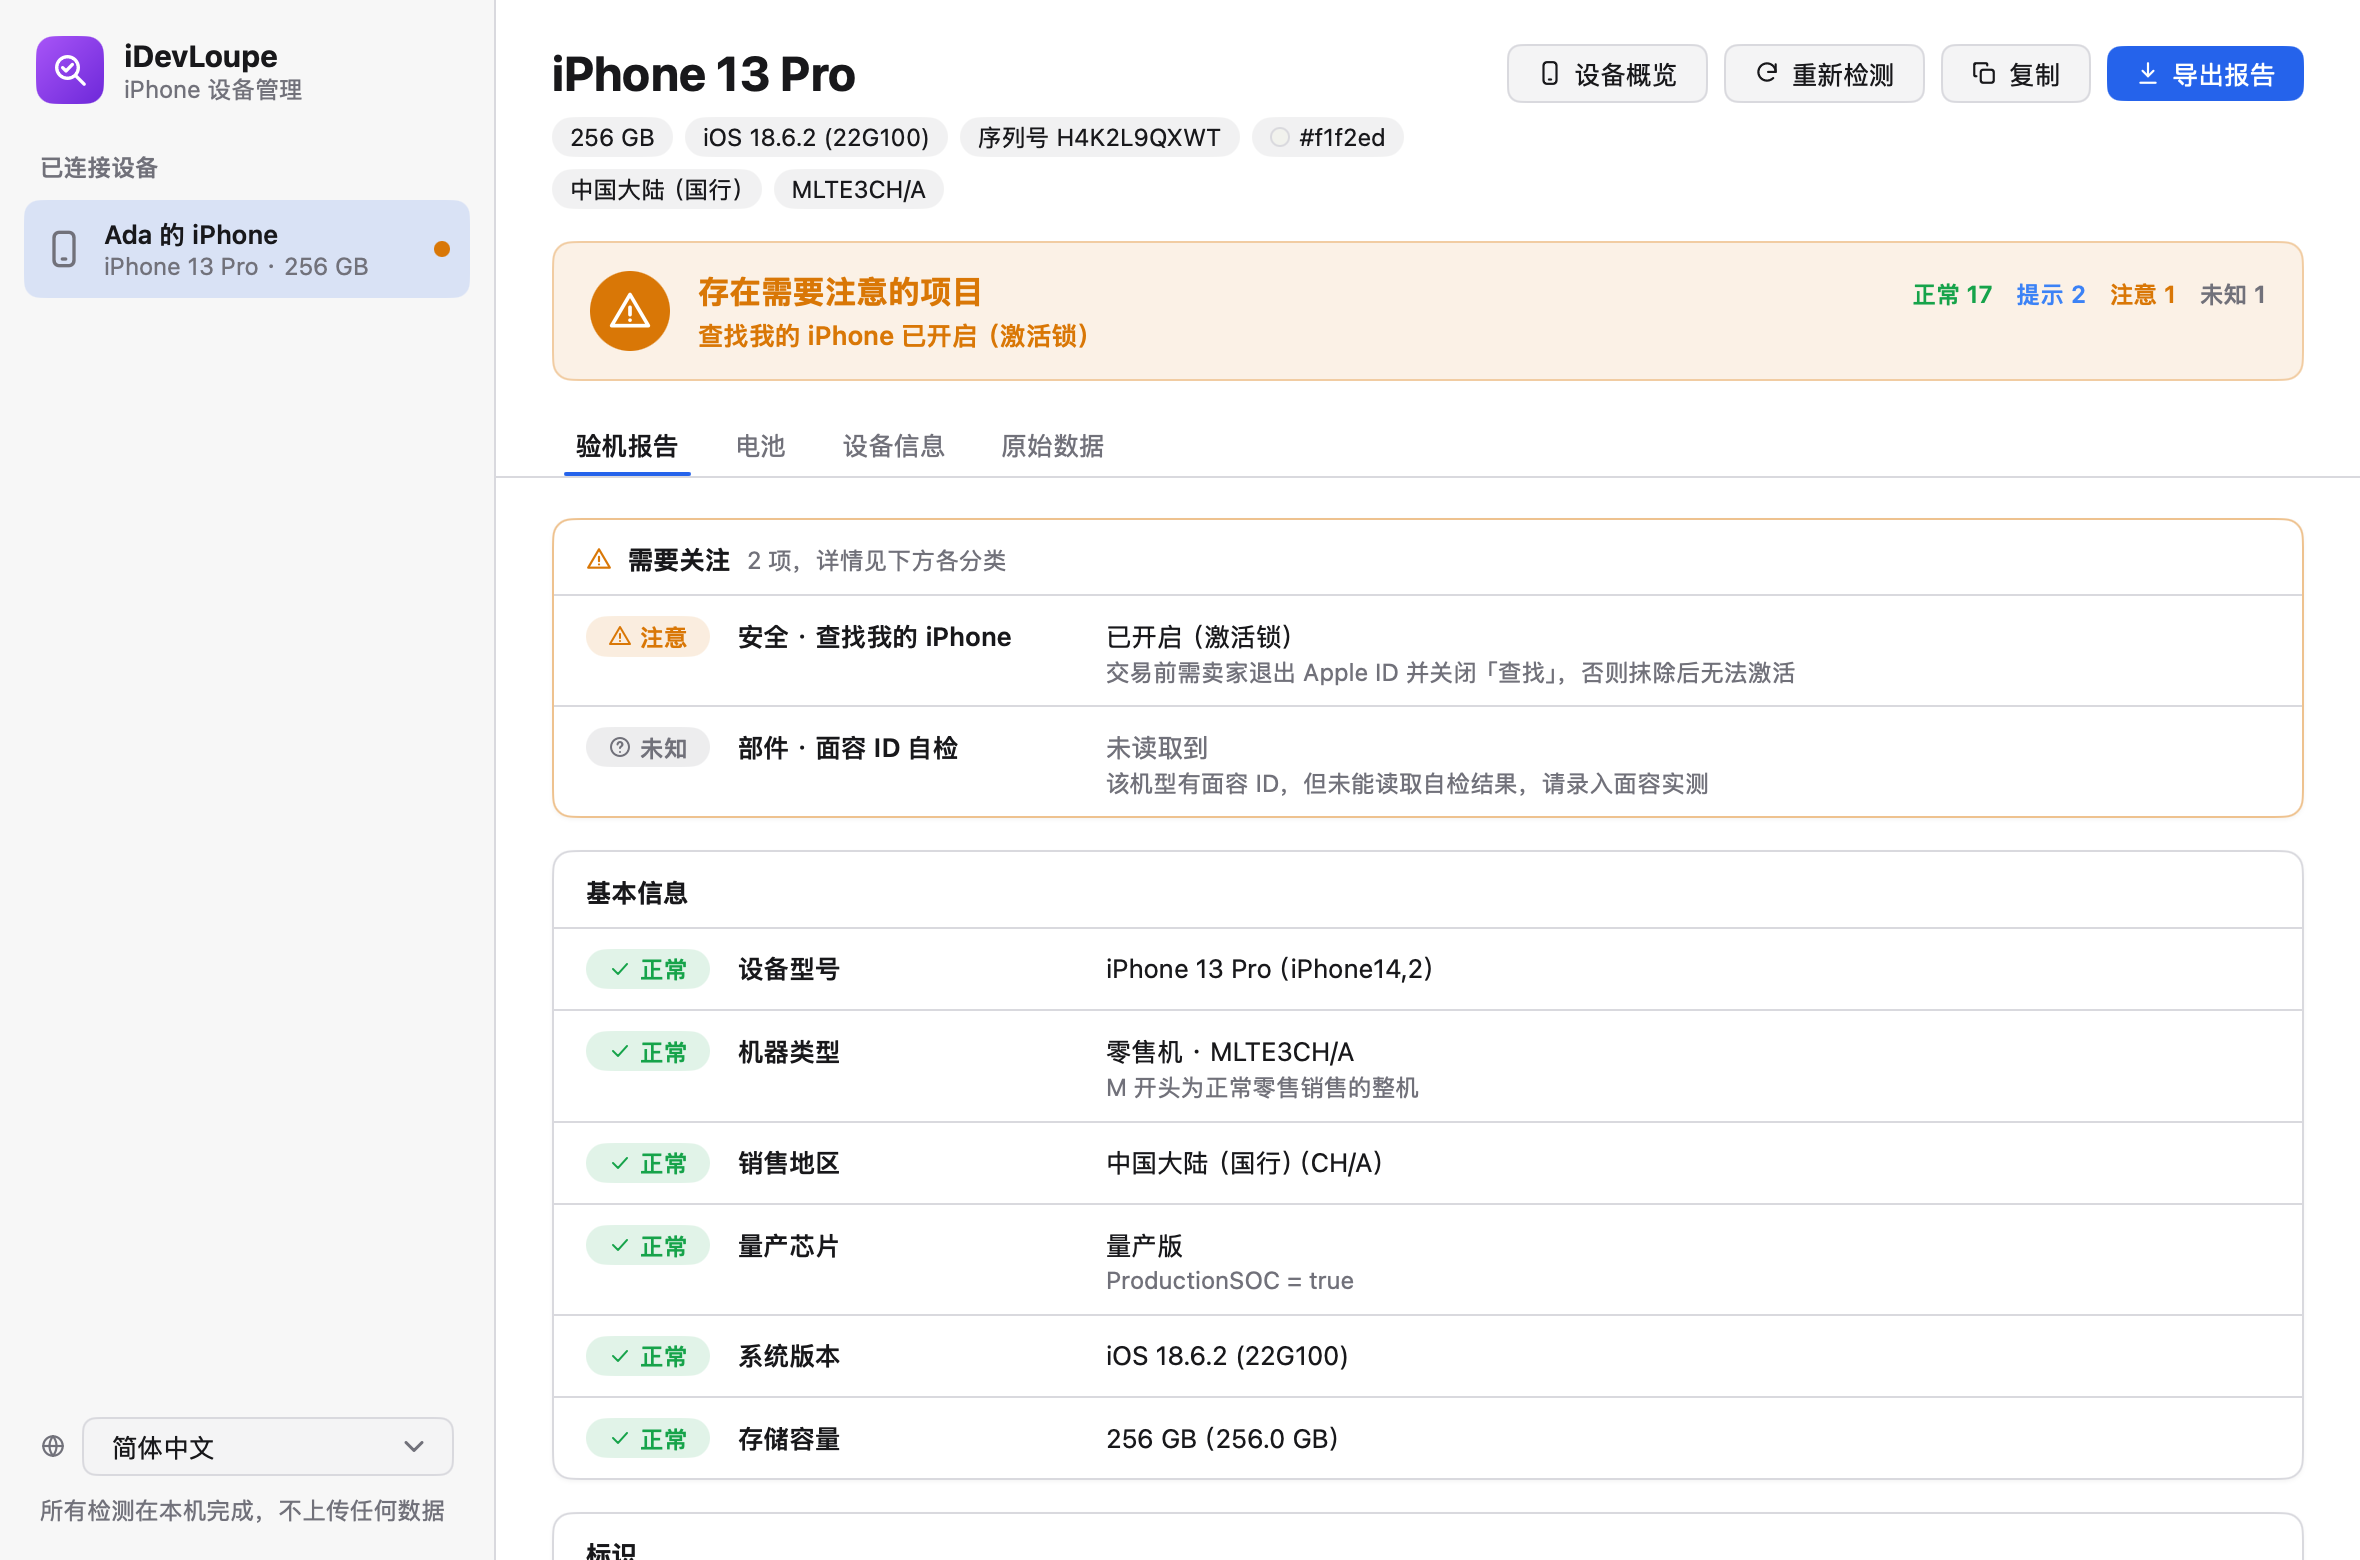
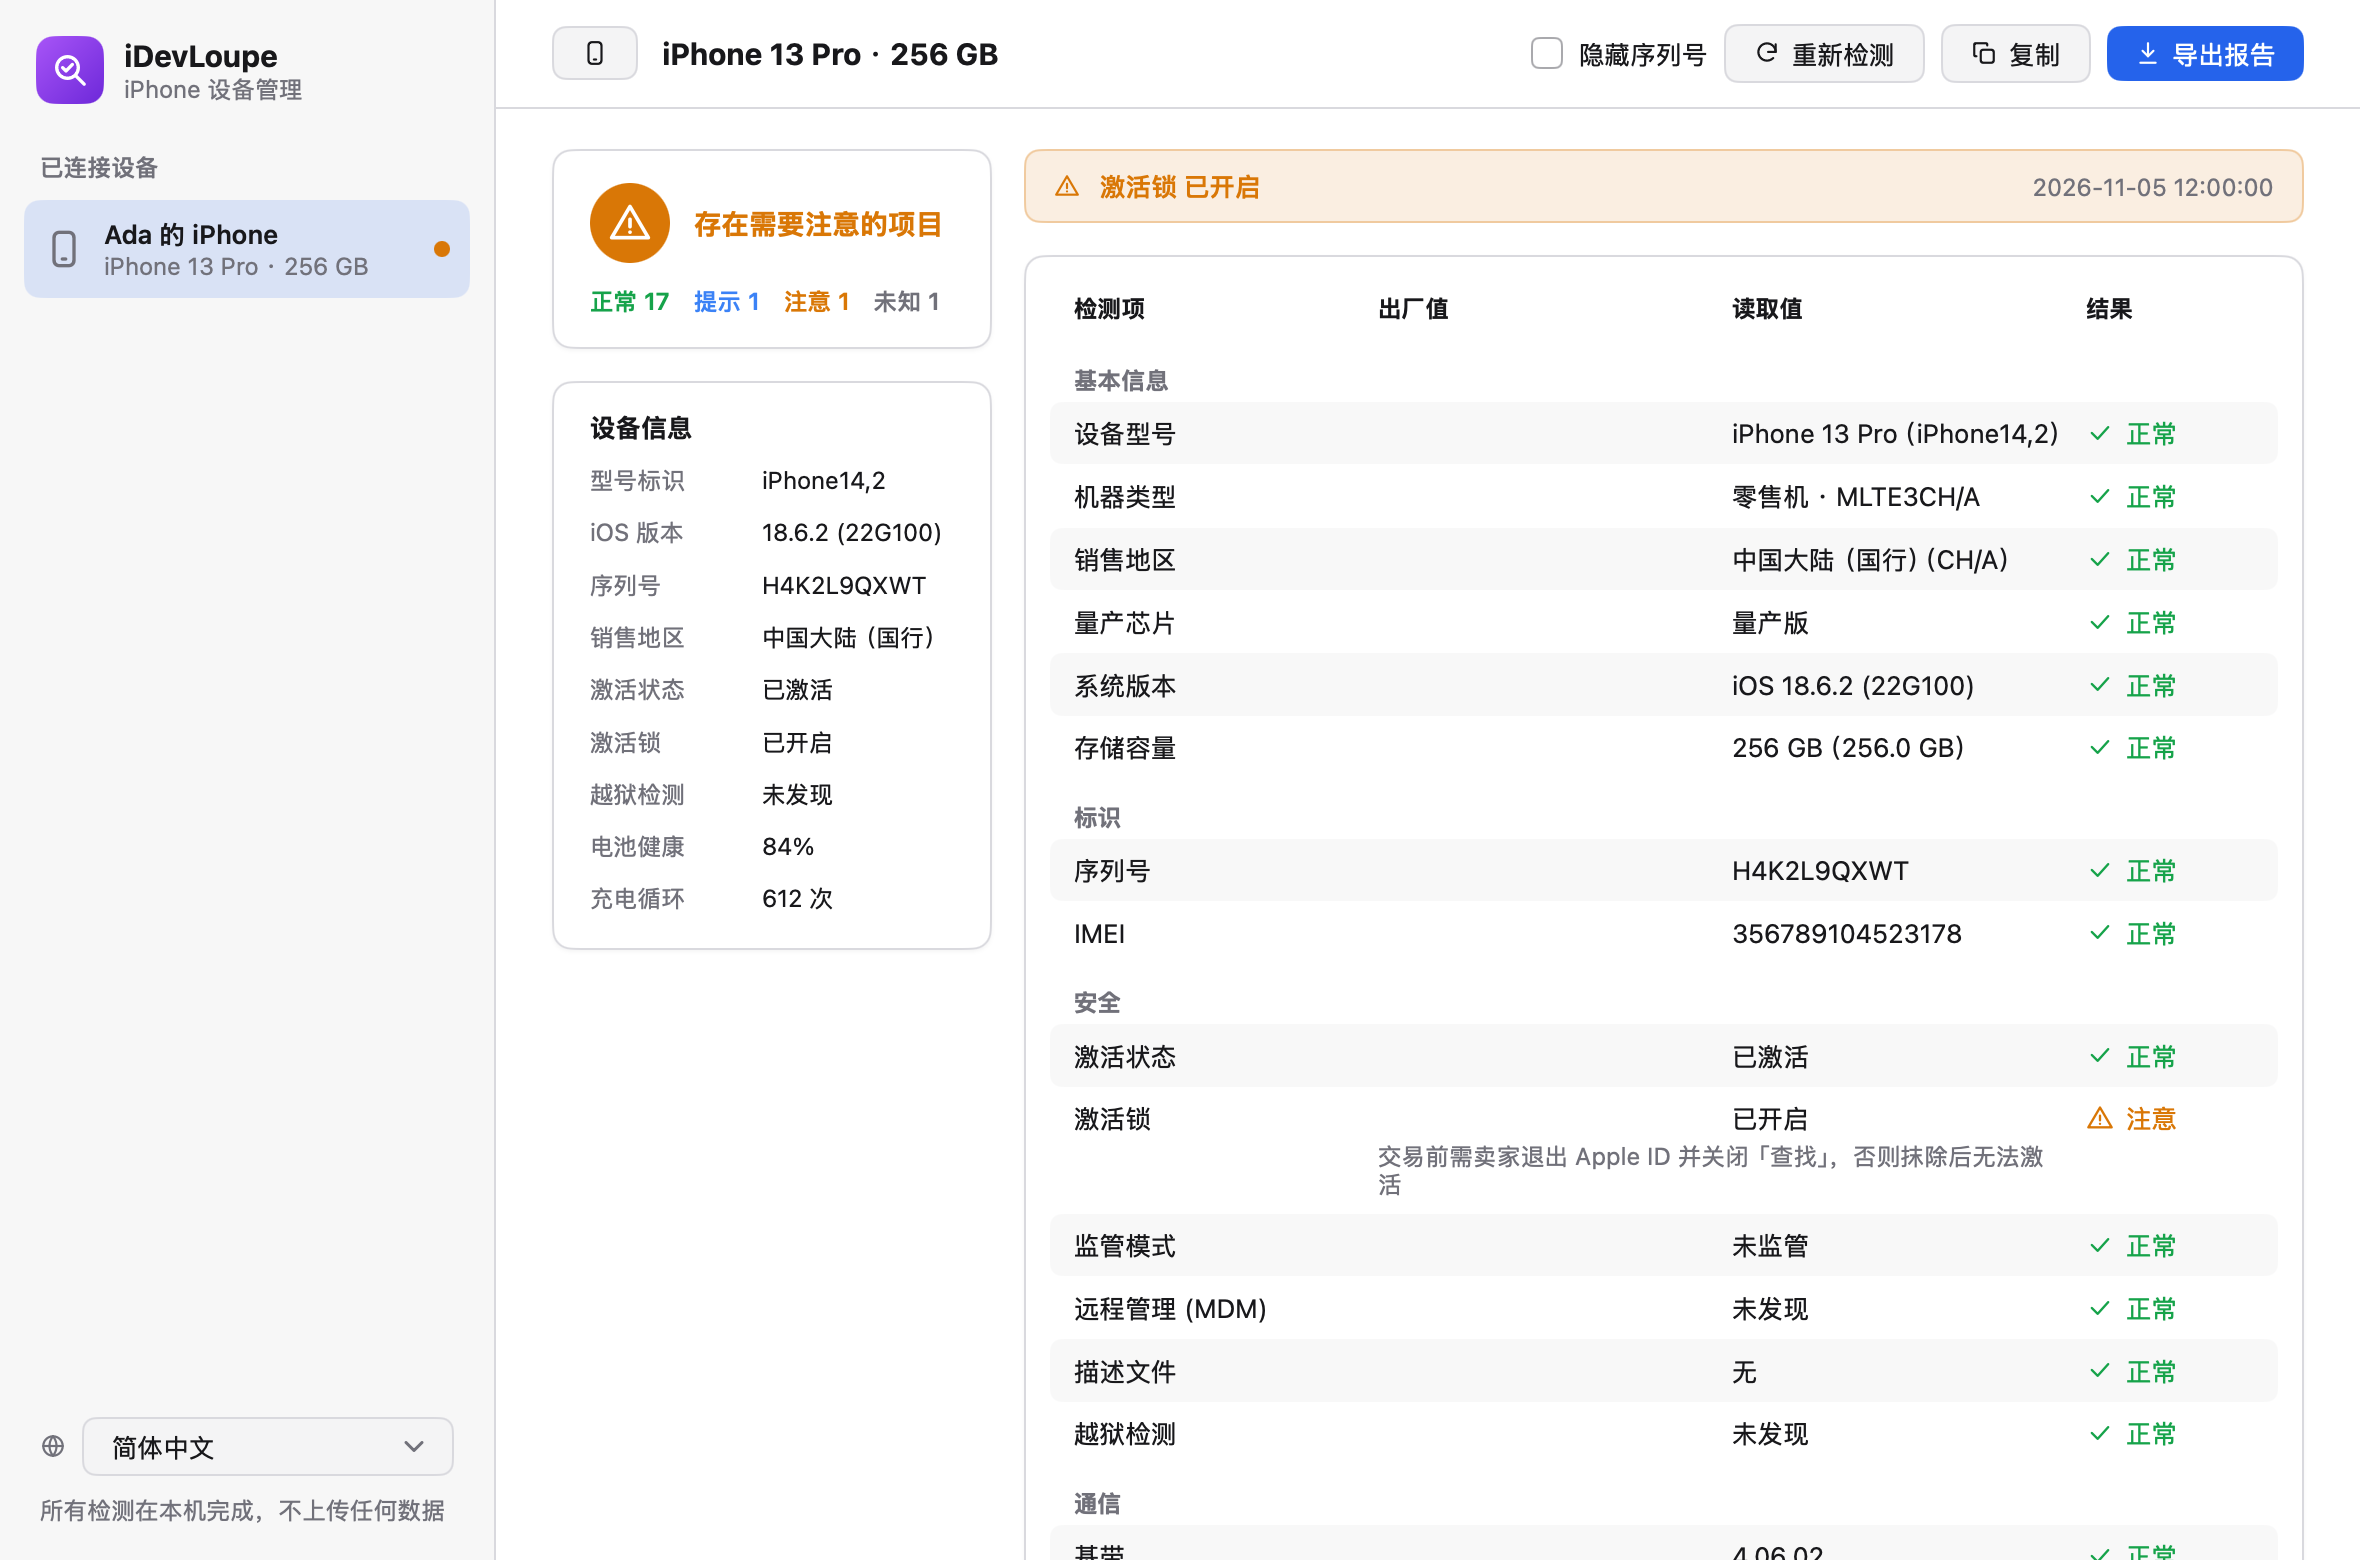
Move the code layout into the docs and refresh the screenshots

diff --git a/README.md b/README.md
@@ -1,7 +1,7 @@
 # iDevLoupe
 
 纯 Go（`CGO_ENABLED=0`）的 iPhone 设备管理桌面工具，界面使用 [MyGo](https://github.com/egoist/mygo)。
-目前提供验机，原理见 [docs/inspection.md](docs/inspection.md)。支持简体中文、English、Deutsch。
+目前提供验机，原理与代码结构见 [docs/inspection.md](docs/inspection.md)。支持简体中文、English、Deutsch。
 
 下载：[GitHub Releases](https://github.com/ac0d3r/idevloupe/releases/latest)。依赖系统的 usbmuxd：
 macOS 自带；Windows 需安装 Apple 设备或 iTunes；Linux 需 `usbmuxd`。
@@ -20,18 +20,3 @@ go run ./cmd/idevloupe -report   # 终端输出验机报告（-json / -list / -l
 ```
 
 推送 `vX.Y.Z` 标签会打包并发布 Release，版本号取自标签。`docs/` 是 GitHub Pages 下载页。
-
-## 结构
-
-| 包 | 作用 |
-|---|---|
-| `pkg/usbmux` | usbmuxd 协议：设备列表、热插拔、配对记录、端口连接 |
-| `pkg/lockdown` | lockdownd：取值、TLS 会话、启动服务、配对 |
-| `pkg/services` | diagnostics_relay、installation_proxy、MCInstall、AFC 等服务 |
-| `pkg/syscfg` | 解析出厂配置记录 |
-| `pkg/device` | 打开受信任的会话、读取基本信息 |
-| `internal/inspect` | 采集 → 分析 → 报告（纯函数，可用录制数据测试） |
-| `internal/gui` | 界面 |
-| `internal/locales` | 翻译文件与生成代码 |
-
-`pkg/` 不依赖应用，可单独使用。协议实现参考 go-ios、ipsw 与 libimobiledevice。
